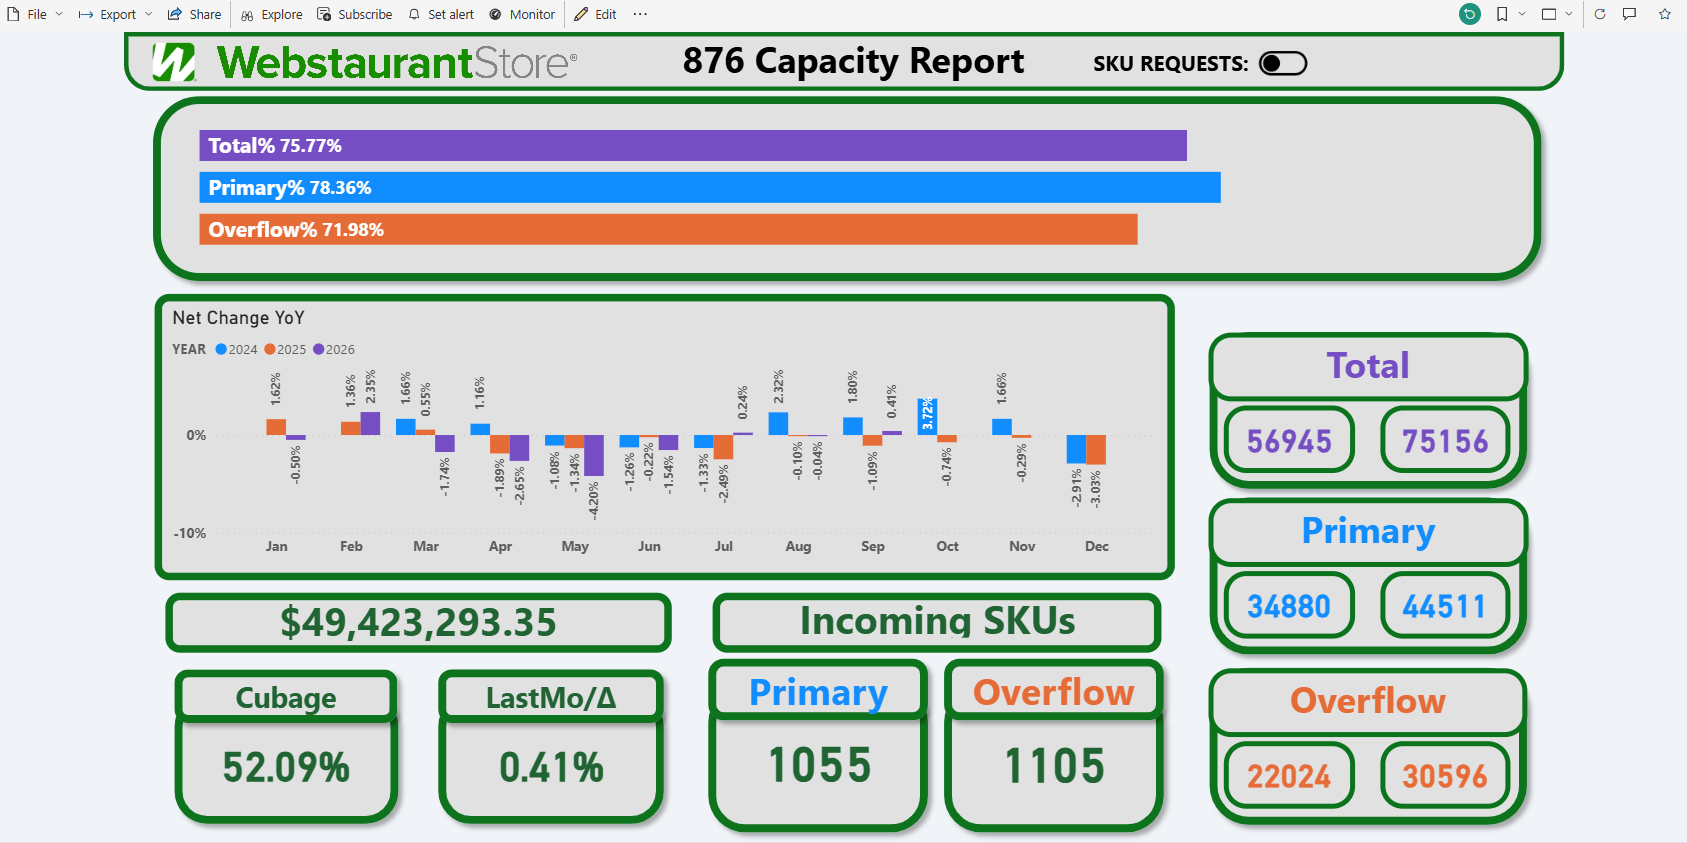
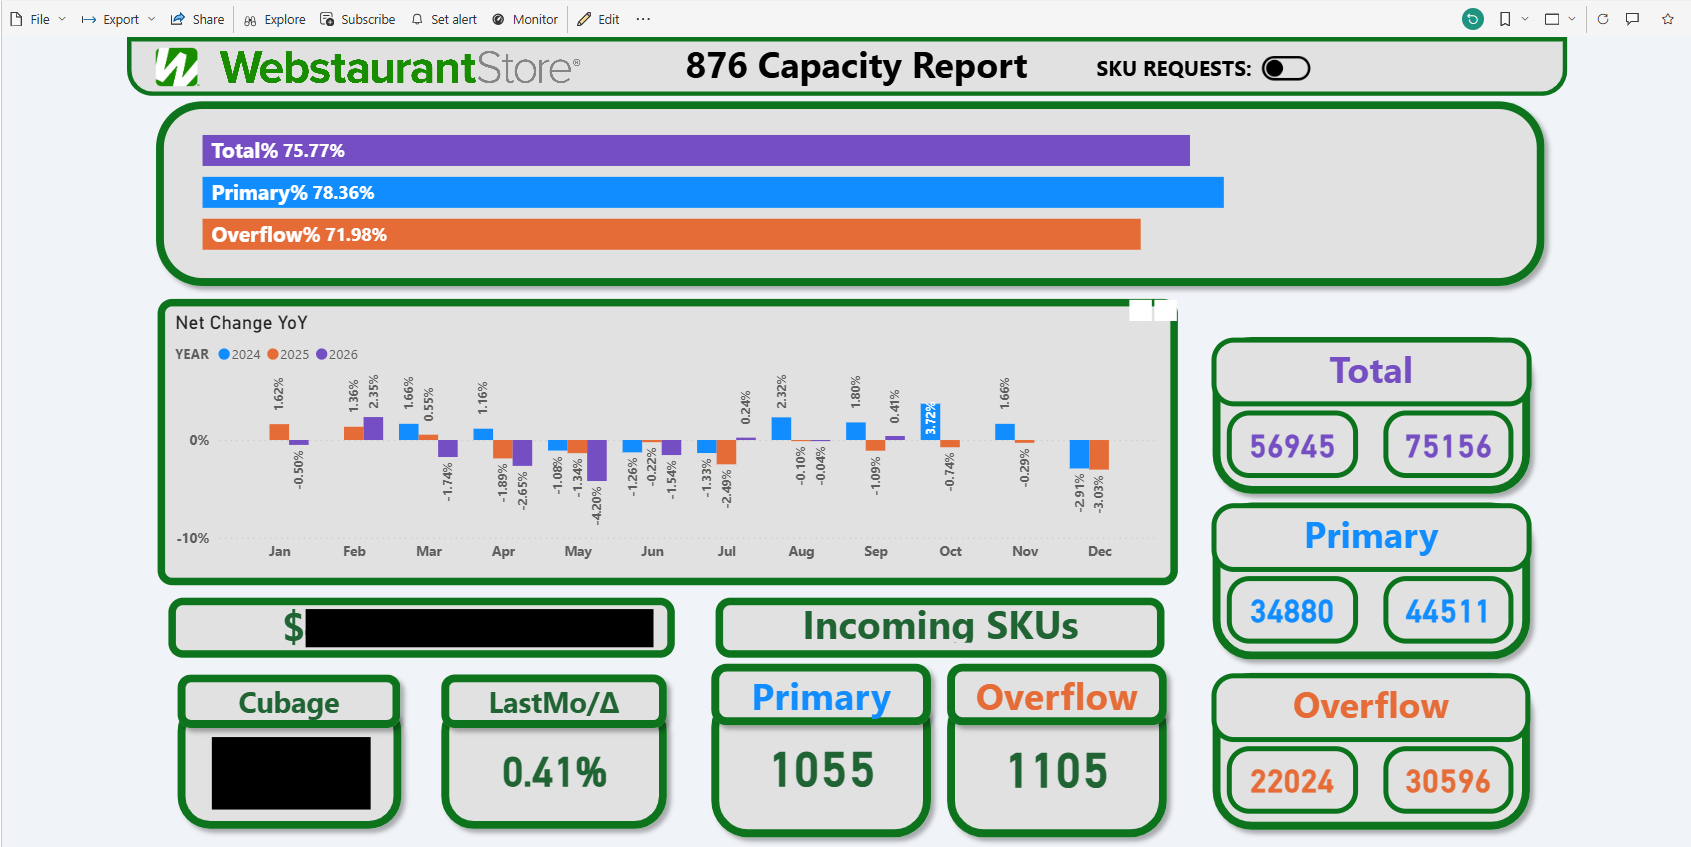
Initial done commit/added images folder

diff --git a/README.md b/README.md
@@ -4,18 +4,18 @@
 [Email](mailto:berkeyjonathan3@gmail.com "Email")
 [LinkedIn](https://www.linkedin.com/in/jonathan-berkey-4806a119b/ "LinkedIn")
 
-Inventory/Capacity Specialist with experience applying data extraction, transformation and loading (ETL) techniques to support operational analysis and improvement. I want to focus continuing developing my skills in data analytics to drive actionable business decisions. Feel free to reach out for any additional information.  
+Inventory/Capacity Specialist with experience applying data extraction, transformation and loading (ETL) techniques to support operational analysis and improvement. I want to focus on continuing to develop my skills in data analytics to drive actionable business decisions. Feel free to reach out for any additional information.  
 
-- 📦 Product Placement for WebstaurantStore Distribution Center (Buckhorn PA)
-- 🎓 Bachelor Degree (Indiana University of Pennsylvania) Communication Media
-- 🖥 Loves data ETL/Manipulation
+- 📦 Product Placement for WebstaurantStore Distribution Center (Buckhorn, PA)
+- 🎓 Bachelor's Degree (Indiana University of Pennsylvania) Communication Media
+- 🖥 Loves data ETL/manipulation
 - 🚲 Loves riding MTB
-- 🕹 Gaming and watching Movies on weekends  
+- 🕹 Gaming and watching movies on weekends  
 
 ## Data ETL Tools
-![Python](https://img.shields.io/badge/Python-blue)
-![PowerBI](https://img.shields.io/badge/PowerBI-yellow)
-![Dax](https://img.shields.io/badge/DAX-orange)
+[![PowerBI](https://img.shields.io/badge/PowerBI-yellow)](#power bi)
+[![Python](https://img.shields.io/badge/Python-blue)](#python)
+[![DAX](https://img.shields.io/badge/DAX-orange)](#powerbi)
 ![SQL](https://img.shields.io/badge/SQL-purple)
 ![Excel](https://img.shields.io/badge/Excel-green)
 
@@ -25,9 +25,36 @@ Inventory/Capacity Specialist with experience applying data extraction, transfor
 ![Streamlit](https://img.shields.io/badge/Streamlit-4a4947)
 
 # Projects
-Reach out via email for any and requests regarding access to any repos or projects.
-## PowerBI
+Reach out via email for any requests regarding access to any repos or projects. Some sensitive information is omitted from these screenshots.
+## Power BI
 ### Capacity Tool
-PowerBI Tool used to visualize capacity percentages and patterns within the DC to support capacity planning and strategy.
+Power BI tool used to visualize capacity percentages and patterns within the DC to support capacity planning and strategy.
 
 ![CapacityMain](Images/CapacityMain.png)
+![CapacityBreakdown](Images/CapacityBreakdown.png)
+![CapacityZoneBreakdown](Images/CapacityZoneBreakdown.png)
+
+### SinglePalletConsolidationVis
+Power BI tool used to visualize bins within the DC with the same items that can be consolidated together to free up space. This tool is also accompanied by a Python script for ETL.
+
+![SinglePalletVisMain](Images/SinglePalletVisMain.png)
+![SinglePalletVisLaborSummary](Images/SinglePalletVisLaborSummary.png)
+
+## Python
+### Streamlit Capacity Tool
+Streamlit app used for data analysis, generating reports, and binning new items that come to the DC.
+
+![StreamlitMain](Images/StreamlitMain.png)
+![StreamlitRandomBin](Images/StreamlitRandomBin.png)
+![StreamlitItemLookup](Images/StreamlitItemLookup.png)
+
+### Data Class and Labor Scripts
+A class was made using Python and the pandas package to manipulate and analyze CSVs. Some projects that were made using this class are described below. Modules are available upon request.
+
+- Data Class - Used to complement other scripts by pulling data and using properties and methods to manipulate data.
+
+- Single Pallet Consolidation - Script manipulates CSVs to find bins with items that can be consolidated together using item and bin volume.
+
+- Wrong Zone - Used to find items that have overflow on the wrong side of the DC. Using this script and combining these bins reduces travel time for drivers when replenishing the main bin for the item.
+
+- Replen Count Tool - Takes a roster and CSVs to aggregate the number of moves or amount of labor completed by each employee.
